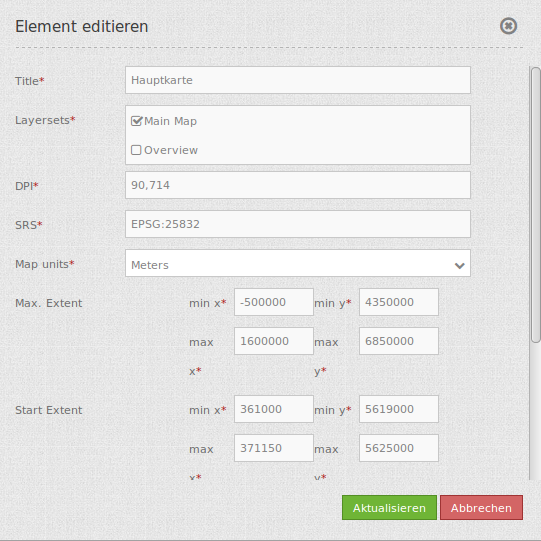
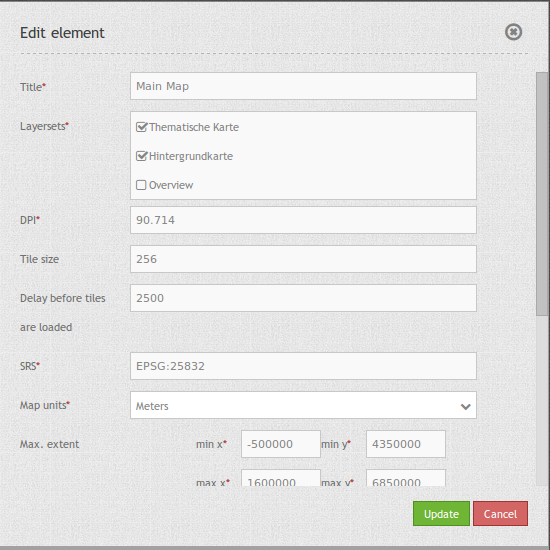
map element and new functions

diff --git a/de/bundles/Mapbender/CoreBundle/elements/map.rst b/de/bundles/Mapbender/CoreBundle/elements/map.rst
@@ -16,10 +16,12 @@ Configuration
      :scale: 80
 
 * **Title:** Titel des Elements. Dieser wird in der Layouts Liste angezeigt und ermöglicht, mehrere Button-Elemente voneinander zu unterscheiden. Der Titel wird außerdem neben dem Button angezeigt, wenn "Beschriftung anzeigen" aktiviert ist.
-* **Layersets:** Vorher konfiguriertes Layerset zur Anzeige der Hauptkarte (main map).
+* **Layersets:** Vorher konfiguriertes Layersets zur Anzeige der Hauptkarte (Thematische Karte, Hintergrundkarte).
 * **DPI:** Maßeinheit für die Auflösung, Standard ist 72.
 * **SRS:** Spatial Reference System, Koordinatenbezugssystem beim Start der Anwendung. Zwei Arten der SRS Definition werden unterstützt: EPSG: CODE oder EPSG:CODE|MEIN SRS TITEL.
 * **Map units:** Einheiten der Karte in Meter, Degrees, Feet, Miles oder Inches, Standard ist "degrees" (Grad).
+* **Tile size:** Größe der Tiles bei gekachelten Diensten.
+* **Delay before tiles:** Für zukünftige Nutzung von WMS-T bei zeitlichen Parametern (findet z.Z. noch keine Anwendung).
 * **Max. Extent:** Maximaler Kartenbereich (BBOX mit min/max x/y, die Ausschnitt definiert).
 * **Start Extent:** Bereich der Karte, der beim Starten der Anwendung angezeigt wird (BBOX mit min/max x/y, die Ausschnitt definiert).
 * **Scales (csv):** festgelegte Zoomstufen, die durch Drehen des Mausrads oder bei stufenweisem Zoomen für den Maßstab genutzt werden (werden durch Komma separiert).
@@ -50,6 +52,8 @@ YAML-Definition:
                                 - ["EPSG:CODE","EPSG:CODE"] or
                                 - ["EPSG:CODE|MEIN SRS TITEL","EPSG:CODE|MEIN SRS TITEL"]
    imgPath: "bundles/mapbendercore/mapquery/lib/openlayers/img"   # Pfad der Bilder (images)
+   tileSize: 256             # Kachelgröße
+   wmsTileDelay: 2500        # Delay bei WMS-T (findet z.Z. noch keine Anwendung)
 
 Class, Widget & Style
 ============================

diff --git a/en/bundles/Mapbender/CoreBundle/elements/map.rst b/en/bundles/Mapbender/CoreBundle/elements/map.rst
@@ -18,6 +18,8 @@ Configuration
 * **Layersets:** refer to a layerset, define the layerset first and refer to it (propably main map).
 * **DPI:** resolution, default is 72.
 * **SRS:** coordinate reference system. Two ways of srs definitions are supported: EPSG: CODE or EPSG:CODE|MY SRS TITLE.
+* **Tile size:** Size of the tiles of tiled WMS services.
+* **Delay before tiles:** For future use of WMS-T if time parameters are used (actually not applicable).
 * **Map units:** units to use degrees/meters, default is deegrees.
 * **Max. Extent:** maximal map extents.
 * **Start Extent:** map extents for the start of the application.
@@ -50,6 +52,8 @@ YAML-Definition:
                                 - ["EPSG:CODE","EPSG:CODE"] or
                                 - ["EPSG:CODE|MY SRS TITLE","EPSG:CODE|MY SRS TITLE"]
    imgPath: "bundles/mapbendercore/mapquery/lib/openlayers/img"   # path of images
+   tileSize: 256             # size of tiles
+   wmsTileDelay: 2500        # delay on WMS-T (actually not applicable)
 
 Class, Widget & Style
 ============================
